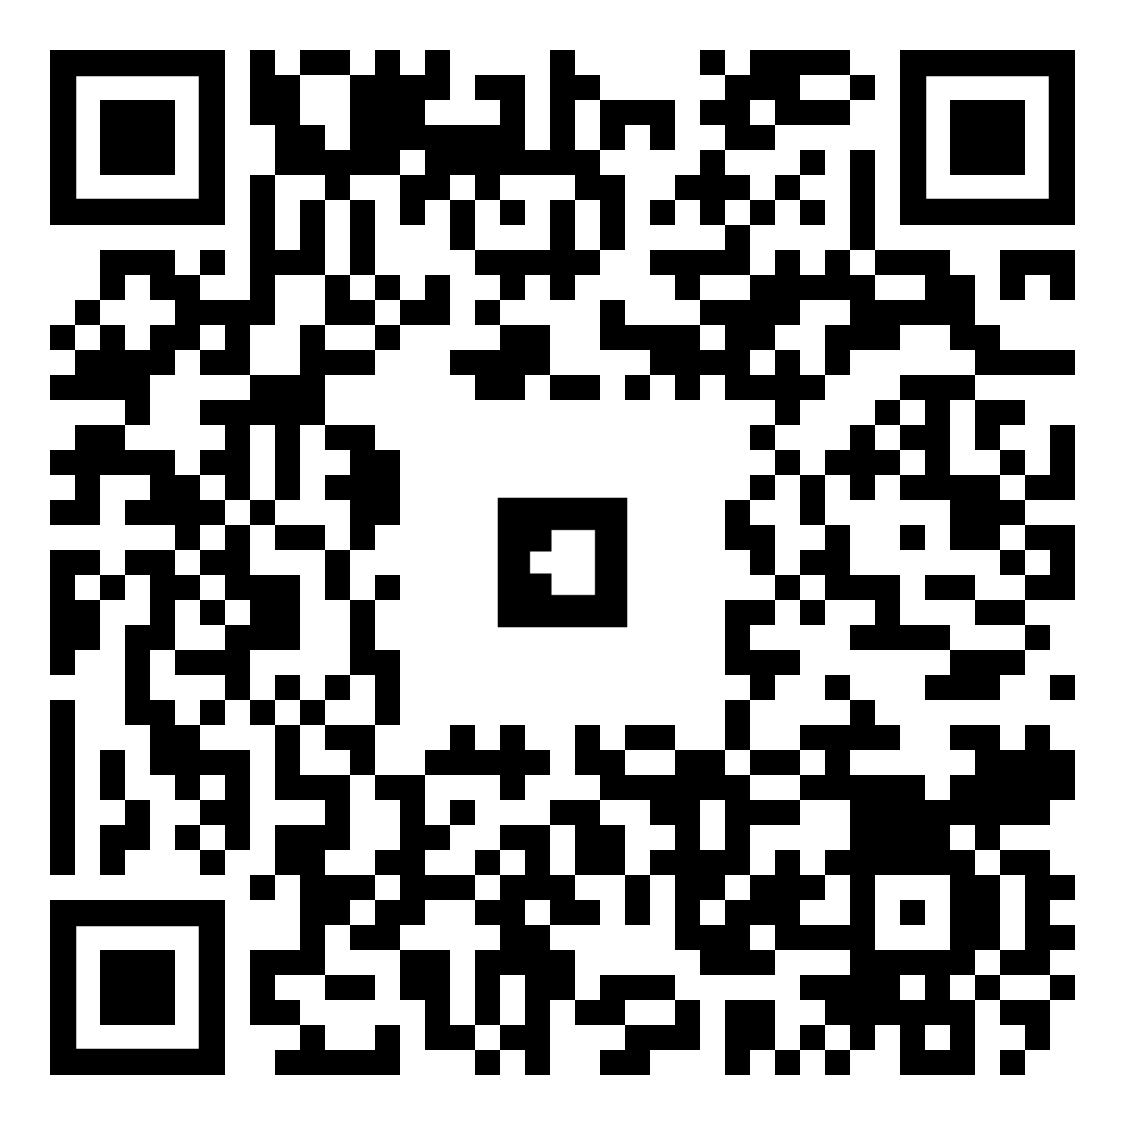
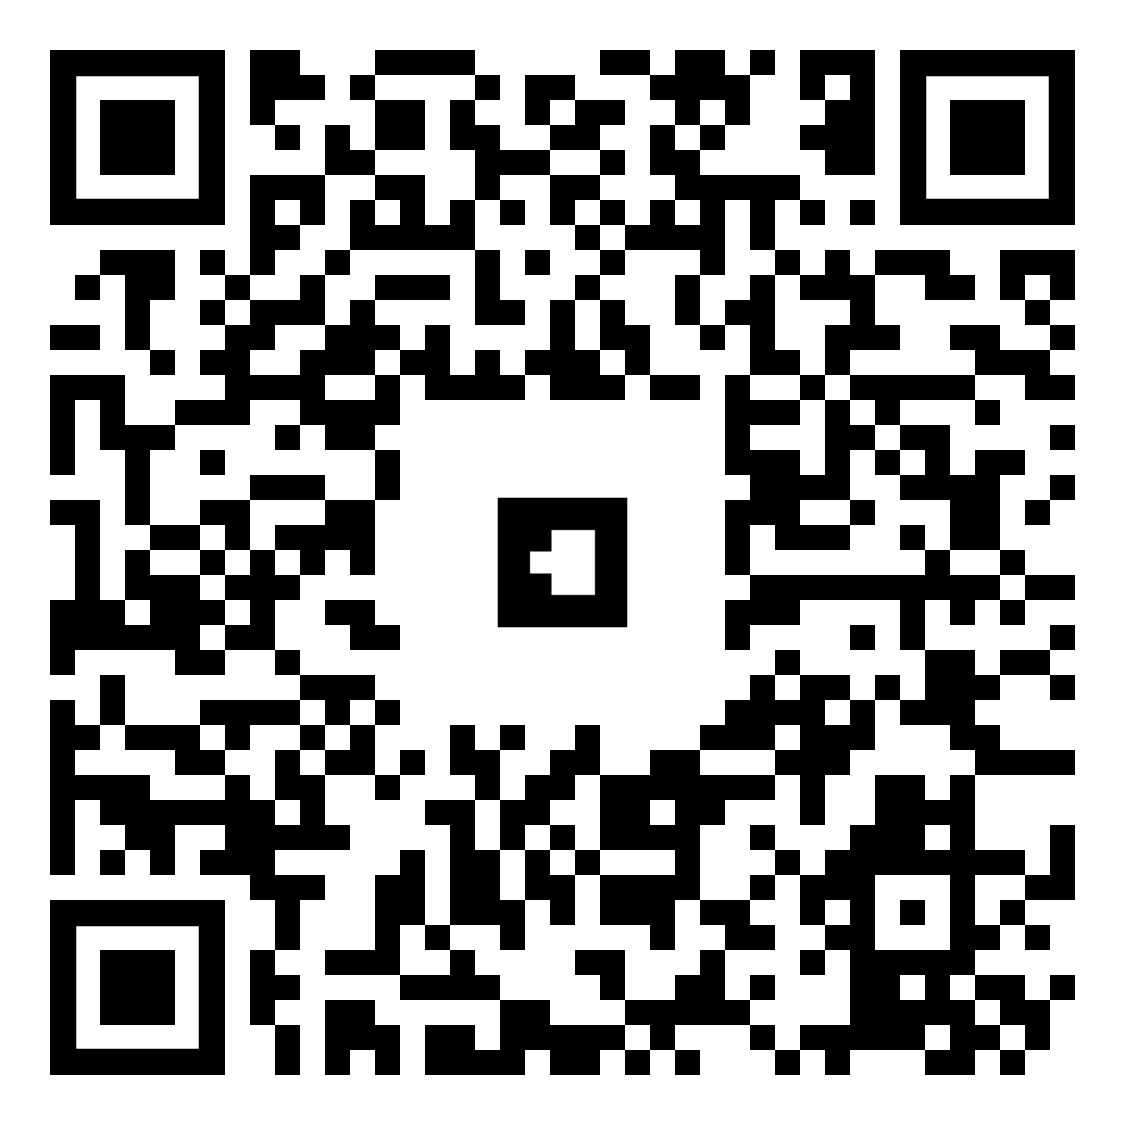
update

Changed region(s): [[0.0311, 0.0311, 0.9644, 0.9644]]

diff --git a/galaxys6.html b/galaxys6.html
@@ -9,31 +9,15 @@
   </head>
   <body style="margin : 0px; overflow: hidden;">
     <!--<a-scene embedded arjs='sourceType: webcam; debugUIEnabled: false;'>-->
-    <a-scene embedded arjs='sourceType: webcam; debugUIEnabled: false; detectionMode: mono_and_matrix; matrixCodeType: 3x3;'>
+    <a-scene embedded arjs='sourceType: webcam; debugUIEnabled: false; detectionMode: mono_and_matrix; matrixCodeType: 3x3_parity_6_5;'>
 
-      <a-assets>
-        <a-asset-item response-type="arraybuffer" id="galaxy" src="https://arjs-cors-proxy.herokuapp.com/https://raw.githack.com/gOdmOde101/WebAR_JS/master/asset/PA_galaxys6/scene.gltf"></a-asset-item>
-      </a-assets>
-
-      <!--<a-plane position="0 0 0" rotation="0 0 0" width="4" height="4" color="yellow"></a-plane>
-      <a-plane position="0 -2 2" rotation="-90 0 0" width="4" height="4" color="blue"></a-plane>
-      <a-marker preset="custom" type="pattern" url="./link/VBig.patt">-->
-
-      <a-marker preset="custom" type="barcode" value="11">
-
-        <!--<a-box position="0 0 0" rotation="0 45 0" color="green" animation="property: rotation; to: 0 360 0; loop: true; dur: 10000; easing: linear;"></a-box>
-
-
-        <a-plane position="0 0 0" rotation="-90 0 0" width="7" height="7" color="#f8f8ff"></a-plane>-->
-
+      <a-marker preset="custom" type='barcode' value='0'>
         <a-entity
-          position="0 0 0"
-          scale="2 2 2"
-          gltf-model="#galaxy">
+          position="0 0 3"
+          scale="0.03 0.03 0.03"
+          gltf-model="https://arjs-cors-proxy.herokuapp.com/https://raw.githack.com/gOdmOde101/WebAR_JS/master/asset/PA_galaxys6/scene.gltf">
         </a-entity>
-
       </a-marker>
-
       <a-entity camera></a-entity>
 
     </a-scene>

diff --git a/GalaxyPA.html b/GalaxyPA.html
@@ -34,7 +34,7 @@
 				</div>
 			<div>
 				<div class="image">
-					<img class="img-responsive" src="./img/qr-code.png" >
+					<img class="img-responsive" src="./img/QRgalaxys6.png" >
 				</div>
 				<div class="para">
 					<h1>How to use:</h1><br>
